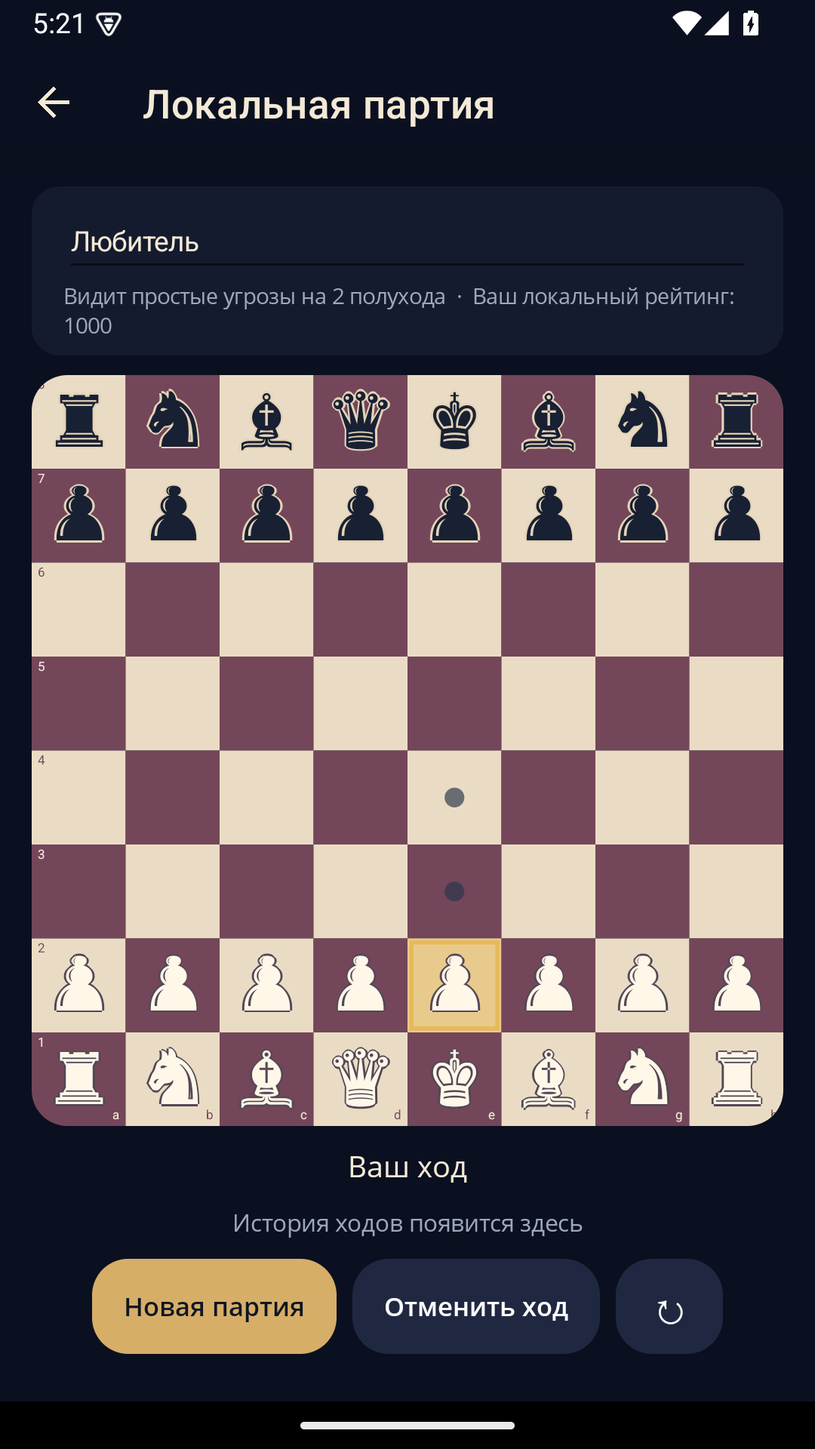
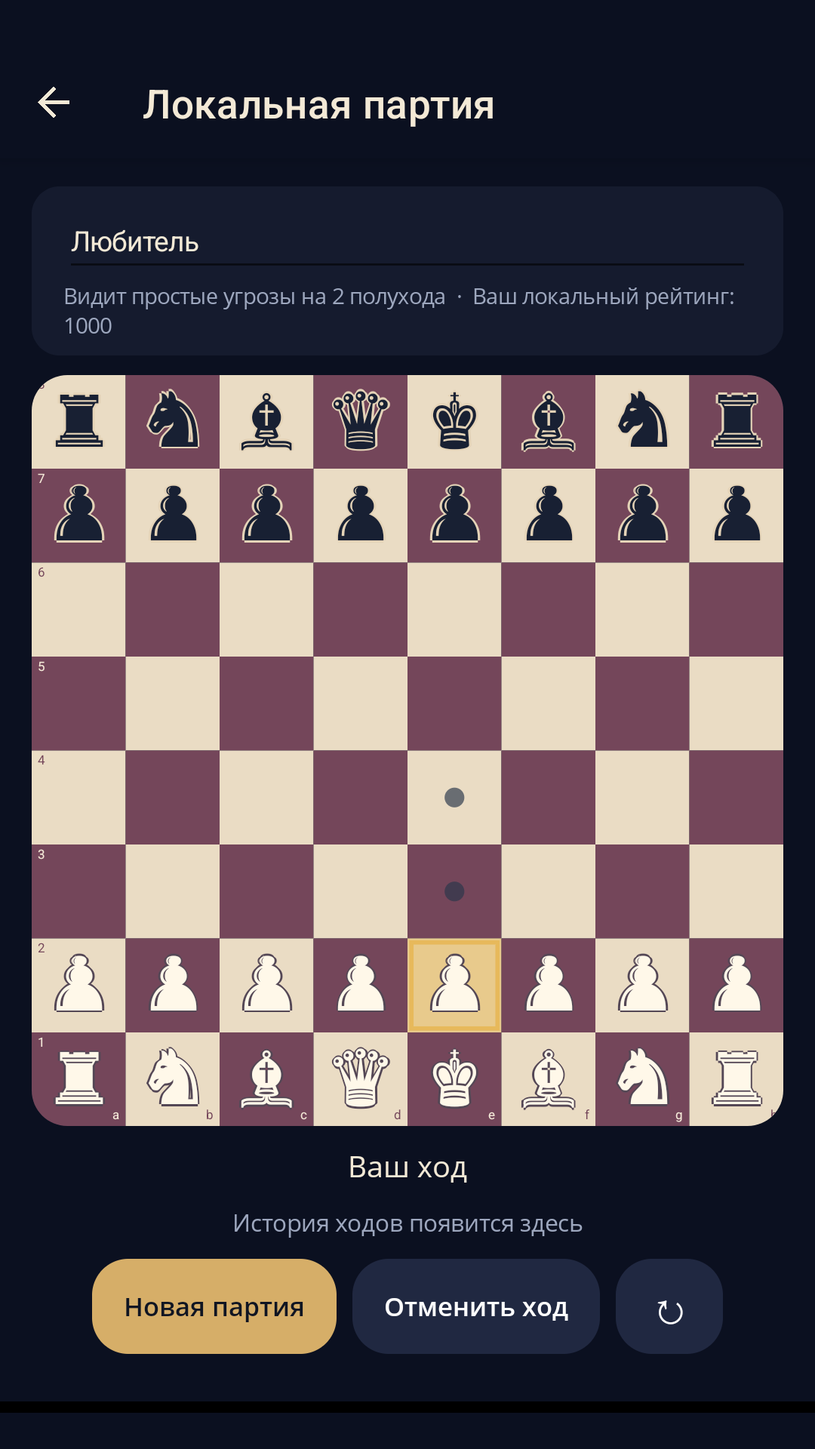
release: refresh RuStore publication package

Changed region(s): [[0.0, 0.9688, 1.0, 1.0], [0.825, 0.0, 0.9472, 0.0312], [0.0306, 0.0, 0.1528, 0.0312]]

diff --git a/store/rustore/privacy-site/index.html b/store/rustore/privacy-site/index.html
@@ -26,17 +26,17 @@
   <p class="date">Дата вступления в силу: 14 августа 2026</p>
 
   <h2>Какие данные обрабатывает приложение</h2>
-  <p>Локальные партии и задачи работают без регистрации и интернета. В гостевом режиме сохранённая партия, настройки, случайный идентификатор устройства, статистика и прогресс хранятся только на устройстве.</p>
-  <p>Если пользователь добровольно входит через Яндекс ID или VK ID, приложение получает уникальный идентификатор и отображаемое имя. На сервер «Шахмат Velvet» передаются идентификатор профиля, агрегированная игровая статистика, результаты задач и рейтинги. Реклама, аналитика, геолокация, контакты, камера, микрофон и пользовательские файлы не используются; данные не продаются.</p>
+  <p>Версия 1.0.0 работает без регистрации и подключения к интернету. Сохранённая партия, настройки, локальная статистика, рейтинг и прогресс задач хранятся только на устройстве пользователя.</p>
+  <p>Приложение не использует рекламу или аналитику, не запрашивает геолокацию, контакты, камеру, микрофон и пользовательские файлы. Персональные данные и игровая статистика третьим лицам не передаются и не продаются.</p>
 
   <h2>Локальные данные</h2>
-  <p>Сохранённая партия, настройки, статистика и прогресс задач хранятся средствами операционной системы. Собственная сессия аккаунта хранится в защищённом хранилище. Локальные данные можно удалить через настройки или вместе с приложением.</p>
+  <p>Сохранённая партия, настройки, рейтинг, статистика и прогресс задач хранятся средствами операционной системы. Их можно удалить командой сброса данных в настройках, очисткой данных приложения средствами Android или вместе с приложением.</p>
 
-  <h2>Передача и хранение</h2>
-  <p>Для опционального входа и синхронизации используется HTTPS. Токен внешнего провайдера не сохраняется в приложении. Серверные данные хранятся до удаления аккаунта; удалить профиль, внешние привязки, рейтинги, статистику и активные сессии можно на экране профиля. Яндекс и VK применяют собственные политики при открытии их страницы входа.</p>
+  <h2>Передача и резервное копирование</h2>
+  <p>В публикуемой версии данные на сервер разработчика или третьим лицам не передаются. Резервное копирование локальных данных может выполняться операционной системой в соответствии с настройками устройства пользователя.</p>
 
-  <h2>Работа без аккаунта</h2>
-  <p>Создание аккаунта не обязательно. Без входа сетевое подключение для партии с компьютером и тактических задач не требуется, а гостевые показатели не публикуются в общей таблице рейтинга.</p>
+  <h2>Будущие функции</h2>
+  <p>В проекте предусмотрена техническая основа будущих сетевых функций, однако в версии 1.0.0 они отключены и недоступны пользователю. Политика будет обновлена до выпуска функций, меняющих обработку данных.</p>
 
   <h2>Разработчик и контакты</h2>
   <p>Разработчик: Телятников Илья Александрович.<br>

diff --git a/store/rustore/privacy-site/index.template.html b/store/rustore/privacy-site/index.template.html
@@ -26,17 +26,17 @@
   <p class="date">Дата вступления в силу: {{EFFECTIVE_DATE}}</p>
 
   <h2>Какие данные обрабатывает приложение</h2>
-  <p>Локальные партии и задачи работают без регистрации и интернета. В гостевом режиме сохранённая партия, настройки, случайный идентификатор устройства, статистика и прогресс хранятся только на устройстве.</p>
-  <p>Если пользователь добровольно входит через Яндекс ID или VK ID, приложение получает уникальный идентификатор и отображаемое имя. На сервер «Шахмат Velvet» передаются идентификатор профиля, агрегированная игровая статистика, результаты задач и рейтинги. Реклама, аналитика, геолокация, контакты, камера, микрофон и пользовательские файлы не используются; данные не продаются.</p>
+  <p>Версия 1.0.0 работает без регистрации и подключения к интернету. Сохранённая партия, настройки, локальная статистика, рейтинг и прогресс задач хранятся только на устройстве пользователя.</p>
+  <p>Приложение не использует рекламу или аналитику, не запрашивает геолокацию, контакты, камеру, микрофон и пользовательские файлы. Персональные данные и игровая статистика третьим лицам не передаются и не продаются.</p>
 
   <h2>Локальные данные</h2>
-  <p>Сохранённая партия, настройки, статистика и прогресс задач хранятся средствами операционной системы. Собственная сессия аккаунта хранится в защищённом хранилище. Локальные данные можно удалить через настройки или вместе с приложением.</p>
+  <p>Сохранённая партия, настройки, рейтинг, статистика и прогресс задач хранятся средствами операционной системы. Их можно удалить командой сброса данных в настройках, очисткой данных приложения средствами Android или вместе с приложением.</p>
 
-  <h2>Передача и хранение</h2>
-  <p>Для опционального входа и синхронизации используется HTTPS. Токен внешнего провайдера не сохраняется в приложении. Серверные данные хранятся до удаления аккаунта; удалить профиль, внешние привязки, рейтинги, статистику и активные сессии можно на экране профиля. Яндекс и VK применяют собственные политики при открытии их страницы входа.</p>
+  <h2>Передача и резервное копирование</h2>
+  <p>В публикуемой версии данные на сервер разработчика или третьим лицам не передаются. Резервное копирование локальных данных может выполняться операционной системой в соответствии с настройками устройства пользователя.</p>
 
-  <h2>Работа без аккаунта</h2>
-  <p>Создание аккаунта не обязательно. Без входа сетевое подключение для партии с компьютером и тактических задач не требуется, а гостевые показатели не публикуются в общей таблице рейтинга.</p>
+  <h2>Будущие функции</h2>
+  <p>В проекте предусмотрена техническая основа будущих сетевых функций, однако в версии 1.0.0 они отключены и недоступны пользователю. Политика будет обновлена до выпуска функций, меняющих обработку данных.</p>
 
   <h2>Разработчик и контакты</h2>
   <p>Разработчик: {{DEVELOPER_NAME}}.<br>

diff --git a/store/rustore/privacy-policy.md b/store/rustore/privacy-policy.md
@@ -2,13 +2,13 @@
 
 Дата вступления в силу: 14 августа 2026 года.
 
-Локальные партии и задачи работают без регистрации и интернета. В гостевом режиме сохранённая партия, настройки, случайный идентификатор устройства, статистика и прогресс хранятся только на устройстве. Приложение не использует рекламу, аналитику, геолокацию, контакты, камеру, микрофон или пользовательские файлы и не продаёт данные.
+Версия 1.0.0 работает без регистрации и подключения к интернету. Сохранённая партия, настройки, локальная статистика, рейтинг и прогресс задач хранятся только на устройстве пользователя.
 
-Если пользователь добровольно входит через Яндекс ID или VK ID, приложение получает от выбранного провайдера уникальный идентификатор и отображаемое имя. На сервер «Шахмат Velvet» передаются идентификатор профиля, агрегированная игровая статистика, результаты задач и рейтинги. Токен внешнего провайдера не хранится в приложении; собственная сессия хранится в защищённом хранилище операционной системы. Передача выполняется по HTTPS.
+Приложение не использует рекламу или аналитику, не запрашивает геолокацию, контакты, камеру, микрофон и пользовательские файлы. Персональные данные и игровая статистика третьим лицам не передаются и не продаются.
 
-Серверные данные хранятся до удаления аккаунта. Удалить аккаунт вместе с привязками, рейтингом, статистикой и активными сессиями можно на экране профиля. Локальные данные удаляются отдельно через настройки или при удалении приложения. Яндекс и VK обрабатывают данные по собственным политикам, когда пользователь открывает их страницу входа.
+Локальный прогресс можно удалить командой сброса данных в настройках приложения, очисткой данных приложения средствами Android или удалением приложения. Резервное копирование может выполняться операционной системой в соответствии с настройками устройства пользователя.
 
-Для работы авторизации приложение имеет доступ к интернету. Без входа сетевое подключение для локальной игры и задач не требуется.
+В проекте предусмотрена техническая основа будущих сетевых функций, однако в публикуемой версии 1.0.0 они отключены и недоступны пользователю. При появлении таких функций политика будет обновлена до их выпуска.
 
 Разработчик: Телятников Илья Александрович.
 Сайт: https://github.com/Xsenus/VelvetChess.

diff --git a/store/rustore/listing-ru.md b/store/rustore/listing-ru.md
@@ -10,11 +10,11 @@
 
 ## Полное описание
 
-Шахматы Velvet — спокойная и быстрая шахматная игра без рекламы и обязательной регистрации.
+Шахматы Velvet — спокойная и быстрая шахматная игра без рекламы, покупок и регистрации.
 
 Играйте против компьютера на четырёх уровнях сложности: от мягкого режима для первых партий до глубокого поиска для опытных игроков. Все правила реализованы полностью — рокировка, взятие на проходе, превращение пешки, шах, мат, пат и ничьи.
 
-Тренируйте тактику в коллекции из 50 проверенных задач: вилки, маты, отвлечения, вскрытые нападения и эндшпильные идеи. Каждая задача содержит подсказку, объяснение и полный вариант решения в стандартной шахматной нотации.
+Тренируйте тактику в коллекции из 50 проверенных задач: вилки, маты, отвлечения, вскрытые нападения и эндшпильные идеи. После каждого правильного хода соперник отвечает автоматически, а отдельный режим разбора показывает весь вариант шаг за шагом.
 
 Преимущества:
 
@@ -23,10 +23,13 @@
 - автосохранение, продолжение партии и отмена хода;
 - 50 популярных тактических позиций;
 - сохранение прогресса по задачам;
-- настройки координат и тактильного отклика;
+- пять наборов фигур и пять вариантов оформления доски;
+- подсветка выбранной фигуры, последнего хода и доступных полей;
+- плавная анимация перемещения фигур;
+- настройки координат, подсказок ходов и тактильного отклика;
 - быстрый и отзывчивый интерфейс;
 - современная тёмная тема;
-- гостевой профиль без регистрации и опциональный вход Яндекс ID/VK ID для будущей синхронизации;
+- локальный рейтинг и подробная статистика партий и задач;
 - без рекламы и покупок.
 
 Онлайн-матчи с другими игроками запланированы для будущего обновления и не заявляются как функция текущей версии.
@@ -37,13 +40,13 @@
 - Возрастной рейтинг: 0+
 - Реклама: нет
 - Покупки: нет
-- Интернет: не требуется для игры с компьютером и задач; нужен только для входа и синхронизации профиля
+- Интернет: не требуется
 
 ## Ключевые слова
 
 шахматы, шахматы офлайн, задачи, тактика, игра с компьютером, настольная игра
 
-## Контакты (заполнить владельцу)
+## Контакты
 
 - Разработчик: `Телятников Илья Александрович`
 - Email поддержки: `ilel@list.ru`

diff --git a/store/rustore/publication-form-ru.md b/store/rustore/publication-form-ru.md
@@ -1,0 +1,75 @@
+# Данные для формы публикации RuStore
+
+## Основная информация
+
+- Название: `Шахматы Velvet`
+- Тип: `Игра`
+- Категория: `Игры → Настольные`
+- Язык карточки: `Русский`
+- Package ID: `ru.velvetchess.game`
+- Версия: `1.0.0`
+- Код версии: `1`
+- Распространение: `Бесплатно`
+
+Краткое и полное описание находятся в `listing-ru.md`. Для загрузки используйте AAB из папки `release`, а APK — для установки и финальной проверки на устройстве.
+
+## Контент и монетизация
+
+- Возрастной рейтинг: ожидаемо `0+` по итогам анкеты.
+- Реклама: `Нет`.
+- Покупки и подписки: `Нет`.
+- Азартные игры и денежные призы: `Нет`.
+- Пользовательский контент и общение: `Нет`.
+- Регистрация и аккаунт: `Нет`.
+- Сетевые матчи: `Нет`.
+
+## Безопасность данных
+
+- Сбор персональных данных: `Нет`.
+- Передача данных третьим лицам: `Нет`.
+- Аналитика и рекламные идентификаторы: `Нет`.
+- Геолокация, контакты, камера, микрофон и файлы пользователя: `Не используются`.
+- Данные игры: локальная партия, настройки, рейтинг, статистика и прогресс задач сохраняются на устройстве.
+- Удаление данных: сброс прогресса в настройках, очистка данных средствами Android или удаление приложения.
+- Политика: `https://xsenus.github.io/VelvetChess/privacy/`
+
+## Контакты
+
+- Разработчик: `Телятников Илья Александрович`
+- Поддержка: `ilel@list.ru`
+- Сайт: `https://github.com/Xsenus/VelvetChess`
+
+## FAQ для карточки
+
+### Нужен ли интернет для игры?
+
+Нет. Партии с компьютером, задачи, рейтинг, статистика и настройки работают полностью офлайн.
+
+### Как устроены тактические задачи?
+
+Сделайте лучший ход на доске. После правильного хода соперник ответит автоматически; полный вариант можно посмотреть пошагово в режиме разбора.
+
+### Какие уровни сложности доступны?
+
+Четыре: Новичок, Любитель, Клубный и Эксперт. Уровень можно менять перед новой партией.
+
+### Есть ли реклама или платные покупки?
+
+Нет. В версии 1.0.0 нет рекламы, покупок и подписок.
+
+### Где хранится прогресс?
+
+Локально на устройстве. Его можно сбросить в настройках приложения.
+
+## Порядок графики
+
+1. `01_home.png`
+2. `02_local_game.png`
+3. `04_puzzle_play.png`
+4. `06_puzzle_solution.png`
+5. `03_puzzles.png`
+6. `05_settings_appearance.png`
+7. `08_settings_board_behavior.png`
+8. `07_profile.png`
+
+Иконка: `graphics/app_icon_512.png`.

diff --git a/store/rustore/screenshots/README.md b/store/rustore/screenshots/README.md
@@ -1,8 +1,8 @@
 # Скриншоты Android
 
-Девять PNG сняты непосредственно с Release-конфигурации приложения на чистом Android API 35 emulator с физическим framebuffer 1080×1920. В кадрах сохранены системные status/navigation bars; изображения не являются нарисованными UI-макетами.
+Восемь PNG сняты непосредственно с подписанной Release-сборки приложения на чистом Android API 35 emulator с физическим framebuffer 1080×1920. Автоматическая обработка очищает только фиксированные области системных status/navigation bars цветом фона приложения; интерфейс не обрезается, не масштабируется и не дорисовывается. Изображения не являются UI-макетами.
 
-Кадр `05_settings_appearance.png` показывает живой предпросмотр выбранных фигур и доски, `08_settings_board_behavior.png` — настройки подсказок и анимации, `09_profile_auth.png` — гостевой режим и подготовленные способы входа.
+Кадр `05_settings_appearance.png` показывает живой предпросмотр выбранных фигур и доски, `08_settings_board_behavior.png` — настройки подсказок и анимации, `07_profile.png` — локальные рейтинг и статистику.
 
 Воспроизводимый smoke-test:
 

diff --git a/store/rustore/CHECKLIST.md b/store/rustore/CHECKLIST.md
@@ -9,9 +9,9 @@
 - [x] Выполнить `scripts/Test-RuStoreReadiness.ps1` без `AllowOwnerPlaceholders` и устранить все ошибки.
 - [ ] Проверить установку release-сборки на реальном Android-устройстве.
 - [ ] Пройти все сценарии из `docs/QA.md`.
-- [x] Снять фактические экраны Android-приложения на эмуляторе API 35 в формате 1080×1920 автоматизированным smoke-test.
+- [x] Снять фактические экраны Android-приложения на эмуляторе API 35 в формате 1080×1920 без системных панелей автоматизированным smoke-test.
 - [ ] Повторить установочный прогон release-сборки на реальном Android-устройстве перед отправкой.
-- [x] Проверить: 1–10 скриншотов, PNG/JPG, до 3 МБ, 9:16, максимум 2160×3840.
+- [x] Проверить: 1–10 скриншотов, PNG/JPG, до 3 МБ, 9:16, максимум 2160×3840, только актуальная функциональность.
 - [x] Экспортировать иконку 512×512 PNG весом до 3 МБ.
 - [x] Разместить политику конфиденциальности на публичном HTTPS-адресе GitHub Pages.
 - [ ] Загрузить AAB/APK и, для AAB, отдельно добавить подписи в RuStore Консоль.

diff --git a/store/rustore/RELEASE-ARTIFACTS.md b/store/rustore/RELEASE-ARTIFACTS.md
@@ -2,8 +2,8 @@
 
 Подписанные артефакты созданы 14.08.2026 постоянным RSA-4096 сертификатом владельца и прошли строгий `Test-RuStoreReadiness.ps1` без разрешения placeholder-данных или debug-сертификата.
 
[5 lines of base64/hex data omitted]
 
 Keystore и password-файл намеренно хранятся вне репозитория. Их необходимо резервировать вместе в защищённом месте: без этого ключа невозможно выпускать доверенные обновления приложения.

diff --git a/store/rustore/release-notes-1.0.0.md b/store/rustore/release-notes-1.0.0.md
@@ -10,5 +10,5 @@
 - Пять оформлений доски: Velvet, Орех, Лес, Океан и Графит — с живым предпросмотром.
 - Плавная анимация ходов, выделение выбранной фигуры, последнего хода и доступных полей.
 - Настройки подсказок ходов, анимации, координат доски, тактильного отклика и подтверждений.
-- Гостевой профиль с локальным рейтингом и подробной статистикой.
-- Партии и задачи работают офлайн; интернет используется только для опционального входа и синхронизации профиля.
+- Локальный профиль с рейтингом и подробной статистикой.
+- Партии, задачи и сохранение прогресса работают полностью офлайн.
